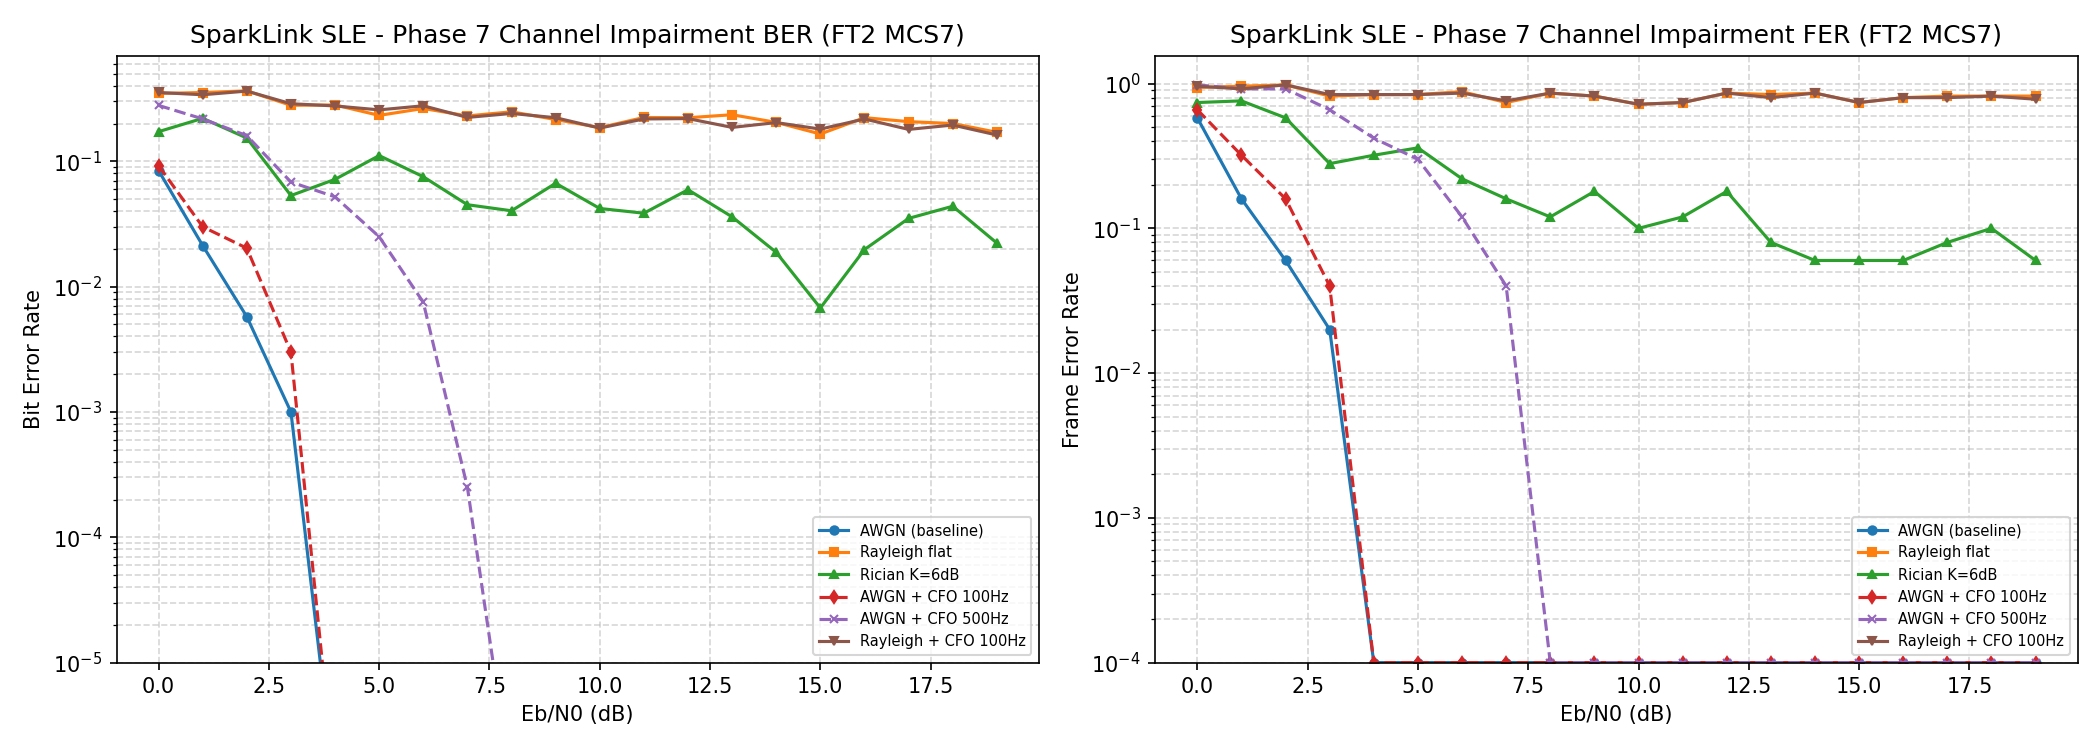
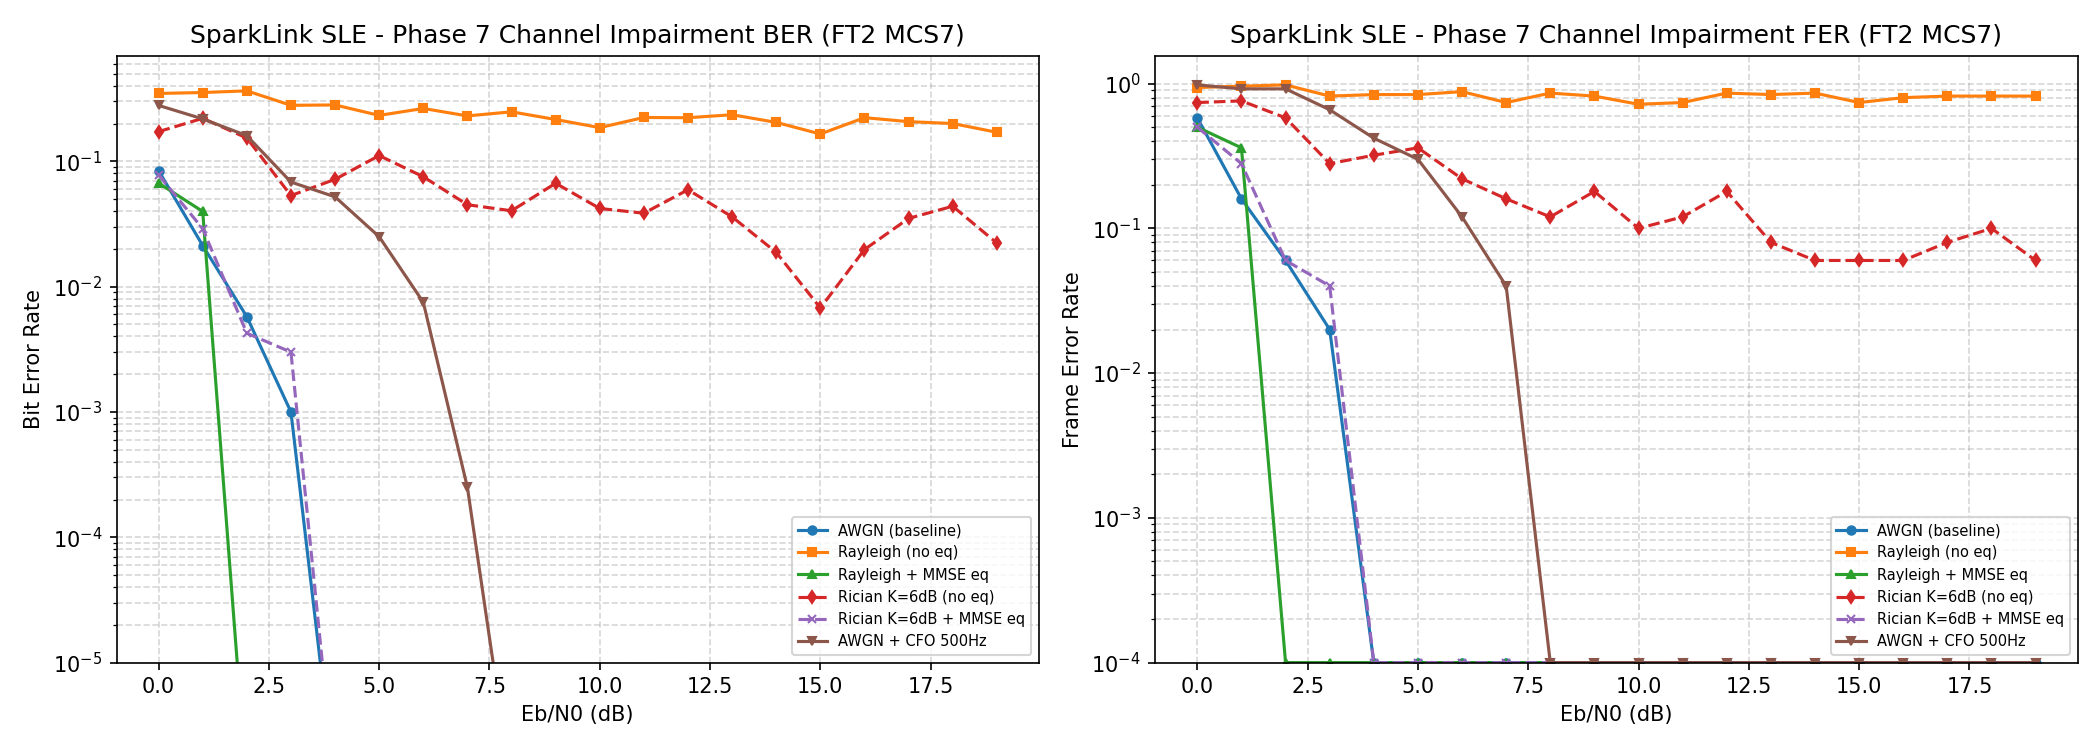
feat: 均衡器集成到 Pipeline 信道仿真
- ChannelModel.apply_fading 缓存信道系数到 last_taps 属性
- sim_pipeline_channel_link 支持 eq_method 参数 (none/zf/mmse)
- 平坦衰落采用 equalize_1tap, 多径采用 equalize_mmse_freq
- Rayleigh + MMSE 均衡: BER 从 ~16% 错误地板降至 0 (5dB 收敛)
- 修复均衡器与信道使用不同随机系数的问题

diff --git a/src/nearlink_sdr/sim/link_sim.py b/src/nearlink_sdr/sim/link_sim.py
@@ -1051,18 +1051,19 @@ def sim_pipeline_channel_link(
     channel_type: str = "awgn",
     rician_k_db: float = 6.0,
     cfo_hz: float = 0.0,
+    eq_method: str = "none",
     snr_range_db: np.ndarray | None = None,
     n_frames: int = 20,
     sps: int = 4,
     seed: int = 42,
 ) -> dict:
-    """全链路 Pipeline 仿真 — 支持多径信道和频率偏移。
+    """全链路 Pipeline 仿真 — 支持多径信道、频率偏移和均衡器。
 
     在 tx_chain 输出的 IQ 信号上依次施加:
       1. 衰落信道 (Rayleigh / Rician / 多径)
       2. 载波频率偏移
       3. AWGN 噪声
-    然后送入 rx_chain 解码。
+    然后可选地进行均衡, 最后送入 rx_chain 解码。
 
     Args:
         frame_type: 帧类型 (1-4)。
@@ -1070,7 +1071,8 @@ def sim_pipeline_channel_link(
         n_data_bytes: 数据长度 (字节)。
         channel_type: "awgn" | "rayleigh" | "rician" | "multipath"。
         rician_k_db: Rician K 因子 (dB)。
-        cfo_hz: 载波频率偏移 (Hz), 典型 SLE 值 0 ~ 数百 Hz。
+        cfo_hz: 载波频率偏移 (Hz)。
+        eq_method: "none" | "zf" | "mmse", 仅对衰落信道有效。
         snr_range_db: Eb/N0 扫描范围。
         n_frames: 每个 SNR 点的仿真帧数。
         sps: 每符号采样数。
@@ -1080,6 +1082,7 @@ def sim_pipeline_channel_link(
         {"snr_db": [...], "ber": [...], "fer": [...]}
     """
     from nearlink_sdr.phy.channel import ChannelConfig
+    from nearlink_sdr.phy.equalizer import equalize_1tap, equalize_mmse_freq
     from nearlink_sdr.phy.rx_pipeline import rx_chain
     from nearlink_sdr.phy.tx_pipeline import TxConfig, tx_chain
 
@@ -1138,6 +1141,18 @@ def sim_pipeline_channel_link(
             # 施加频率偏移
             rx_iq = _apply_cfo(rx_iq, cfo_hz, sample_rate)
 
+            # 均衡 (genie-aided: 使用 apply_fading 缓存的信道系数)
+            if eq_method != "none" and channel_type not in ("awgn",):
+                noise_var = ch.noise_variance
+                taps = ch.last_taps
+                if channel_type in ("rayleigh", "rician"):
+                    h = taps[0, :]
+                    rx_iq = equalize_1tap(rx_iq, h, noise_var, method=eq_method)
+                elif channel_type == "multipath":
+                    h_time = taps[:, 0]
+                    h_freq = np.fft.fft(h_time, len(rx_iq))
+                    rx_iq = equalize_mmse_freq(rx_iq, h_freq, noise_var)
+
             result = rx_chain(rx_iq, cfg, n_data_bytes)
 
             errors = int(np.sum(result.data_bits[:n_data_bits] != data_bits))
@@ -1166,18 +1181,18 @@ def run_phase7_simulation():
     print()
 
     configs = [
-        {"channel_type": "awgn", "cfo_hz": 0.0,
+        {"channel_type": "awgn", "cfo_hz": 0.0, "eq_method": "none",
          "label": "AWGN (baseline)"},
-        {"channel_type": "rayleigh", "cfo_hz": 0.0,
-         "label": "Rayleigh flat"},
-        {"channel_type": "rician", "cfo_hz": 0.0,
-         "label": "Rician K=6dB"},
-        {"channel_type": "awgn", "cfo_hz": 100.0,
-         "label": "AWGN + CFO 100Hz"},
-        {"channel_type": "awgn", "cfo_hz": 500.0,
+        {"channel_type": "rayleigh", "cfo_hz": 0.0, "eq_method": "none",
+         "label": "Rayleigh (no eq)"},
+        {"channel_type": "rayleigh", "cfo_hz": 0.0, "eq_method": "mmse",
+         "label": "Rayleigh + MMSE eq"},
+        {"channel_type": "rician", "cfo_hz": 0.0, "eq_method": "none",
+         "label": "Rician K=6dB (no eq)"},
+        {"channel_type": "rician", "cfo_hz": 0.0, "eq_method": "mmse",
+         "label": "Rician K=6dB + MMSE eq"},
+        {"channel_type": "awgn", "cfo_hz": 500.0, "eq_method": "none",
          "label": "AWGN + CFO 500Hz"},
-        {"channel_type": "rayleigh", "cfo_hz": 100.0,
-         "label": "Rayleigh + CFO 100Hz"},
     ]
 
     results = []
@@ -1189,6 +1204,7 @@ def run_phase7_simulation():
             n_data_bytes=10,
             channel_type=cfg["channel_type"],
             cfo_hz=cfg["cfo_hz"],
+            eq_method=cfg["eq_method"],
             snr_range_db=snr_range,
             n_frames=50,
         )

diff --git a/src/nearlink_sdr/phy/channel.py b/src/nearlink_sdr/phy/channel.py
@@ -59,6 +59,7 @@ class ChannelModel:
         else:
             self.cfg = ChannelConfig(snr_db=snr_db)
         self._rng = np.random.default_rng(self.cfg.seed)
+        self._last_taps: np.ndarray | None = None
 
     # ── 公共接口 ──
 
@@ -67,21 +68,32 @@ class ChannelModel:
         return self._add_noise(signal, self.cfg.snr_db)
 
     def apply_fading(self, signal: np.ndarray) -> np.ndarray:
-        """按 config 类型应用衰落 + AWGN。"""
+        """按 config 类型应用衰落 + AWGN, 同时缓存信道系数到 last_taps。"""
         ct = self.cfg.channel_type
+        n = len(signal)
         if ct == "awgn":
+            self._last_taps = np.ones((1, n), dtype=complex)
             return self._add_noise(signal, self.cfg.snr_db)
         elif ct == "rayleigh":
-            faded = self._rayleigh_flat(signal)
-            return self._add_noise(faded, self.cfg.snr_db)
+            h = self._gen_rayleigh_coeffs(n)
+            self._last_taps = h.reshape(1, -1)
+            return self._add_noise(signal * h, self.cfg.snr_db)
         elif ct == "rician":
-            faded = self._rician_flat(signal)
-            return self._add_noise(faded, self.cfg.snr_db)
+            h = self._gen_rician_coeffs(n)
+            self._last_taps = h.reshape(1, -1)
+            return self._add_noise(signal * h, self.cfg.snr_db)
         elif ct == "multipath":
-            faded = self._multipath(signal)
+            taps = self._gen_multipath_taps(n)
+            self._last_taps = taps
+            faded = self._apply_multipath_taps(signal, taps)
             return self._add_noise(faded, self.cfg.snr_db)
         else:
             raise ValueError(f"Unknown channel type: {ct}")
+
+    @property
+    def last_taps(self) -> np.ndarray | None:
+        """上一次 apply_fading 使用的信道系数, 供均衡器使用。"""
+        return self._last_taps
 
     def get_channel_taps(self, n_symbols: int) -> np.ndarray:
         """返回信道抽头系数矩阵 (n_taps × n_symbols), 用于均衡器。
@@ -111,10 +123,12 @@ class ChannelModel:
 
     def _rayleigh_flat(self, signal: np.ndarray) -> np.ndarray:
         h = self._gen_rayleigh_coeffs(len(signal))
+        self._last_taps = h.reshape(1, -1)
         return signal * h
 
     def _rician_flat(self, signal: np.ndarray) -> np.ndarray:
         h = self._gen_rician_coeffs(len(signal))
+        self._last_taps = h.reshape(1, -1)
         return signal * h
 
     def _gen_rayleigh_coeffs(self, n: int) -> np.ndarray:
@@ -144,13 +158,18 @@ class ChannelModel:
     def _multipath(self, signal: np.ndarray) -> np.ndarray:
         """应用多径信道 (FIR 卷积模型)。"""
         taps = self._gen_multipath_taps(len(signal))
+        self._last_taps = taps
+        return self._apply_multipath_taps(signal, taps)
+
+    @staticmethod
+    def _apply_multipath_taps(signal: np.ndarray, taps: np.ndarray) -> np.ndarray:
+        """用给定的抽头系数对信号做 FIR 多径卷积。"""
         n_taps = taps.shape[0]
         n = len(signal)
         out = np.zeros(n, dtype=complex)
         for k in range(n_taps):
-            delay = self.cfg.pdp[k][0] if k < len(self.cfg.pdp) else k
+            delay = k
             if delay < n:
-                # 每个抽头的信道系数乘以延迟信号
                 shifted = np.zeros(n, dtype=complex)
                 shifted[delay:] = signal[:n - delay]
                 out += taps[k, :n] * shifted

diff --git a/docs/how-to/run-simulation.md b/docs/how-to/run-simulation.md
@@ -109,17 +109,28 @@ uv run python -m nearlink_sdr.sim.link_sim phase6
 
 ## 信道损伤仿真
 
-使用 `sim_pipeline_channel_link` 模拟衰落信道和载波频偏对链路的影响:
+使用 `sim_pipeline_channel_link` 模拟衰落信道、载波频偏和均衡对链路的影响:
 
 ```python
 import numpy as np
 from nearlink_sdr.sim.link_sim import sim_pipeline_channel_link
 
-# Rayleigh 平坦衰落
+# Rayleigh 平坦衰落, 无均衡
 result = sim_pipeline_channel_link(
     frame_type=2,
     mcs_index=7,
     channel_type="rayleigh",
+    eq_method="none",
+    snr_range_db=np.arange(0, 20, 2),
+    n_frames=50,
+)
+
+# Rayleigh + MMSE 均衡 (genie-aided)
+result = sim_pipeline_channel_link(
+    frame_type=2,
+    mcs_index=7,
+    channel_type="rayleigh",
+    eq_method="mmse",
     snr_range_db=np.arange(0, 20, 2),
     n_frames=50,
 )
@@ -134,7 +145,7 @@ result = sim_pipeline_channel_link(
 )
 ```
 
-批量信道损伤仿真:
+批量信道损伤仿真 (含均衡对比):
 
 ```bash
 uv run python -m nearlink_sdr.sim.link_sim phase7

diff --git a/CHANGELOG.md b/CHANGELOG.md
@@ -7,6 +7,19 @@
 
 ## [Unreleased]
 
+## [0.15.0] - 2026-03-20
+
+### Added
+
+- `phy/channel.py`: `last_taps` 属性, `apply_fading` 缓存信道系数供均衡器复用
+- `sim/link_sim.py`: `sim_pipeline_channel_link()` 支持 `eq_method` 参数 (none/zf/mmse)
+- 平坦衰落 (Rayleigh/Rician) 采用 `equalize_1tap`, 多径采用 `equalize_mmse_freq`
+- Rayleigh + MMSE 均衡: BER 从 ~16% 错误地板降至 0 (5dB 即收敛)
+
+### Fixed
+
+- 修复 `sim_pipeline_channel_link` 中均衡器使用独立随机信道系数的问题
+
 ## [0.14.0] - 2026-03-20
 
 ### Changed

diff --git a/AGENTS.md b/AGENTS.md
@@ -98,6 +98,7 @@ tests/            # 测试文件, 与 src 模块一一对应
 | 6.3 | FT1/FT3/FT4 帧类型全链路支持 | 完成 | `phy/tx_pipeline.py`, `phy/rx_pipeline.py` |
 | - | 全链路 Pipeline 仿真 | 完成 | `sim/link_sim.py` (Phase 6) |
 | - | 多径信道 + 频偏 Pipeline 仿真 | 完成 | `sim/link_sim.py` (Phase 7) |
+| - | 均衡器集成到 Pipeline 仿真 | 完成 | `sim/link_sim.py`, `phy/channel.py` |
 
 ## 硬件约束 (USRP E310)
 
